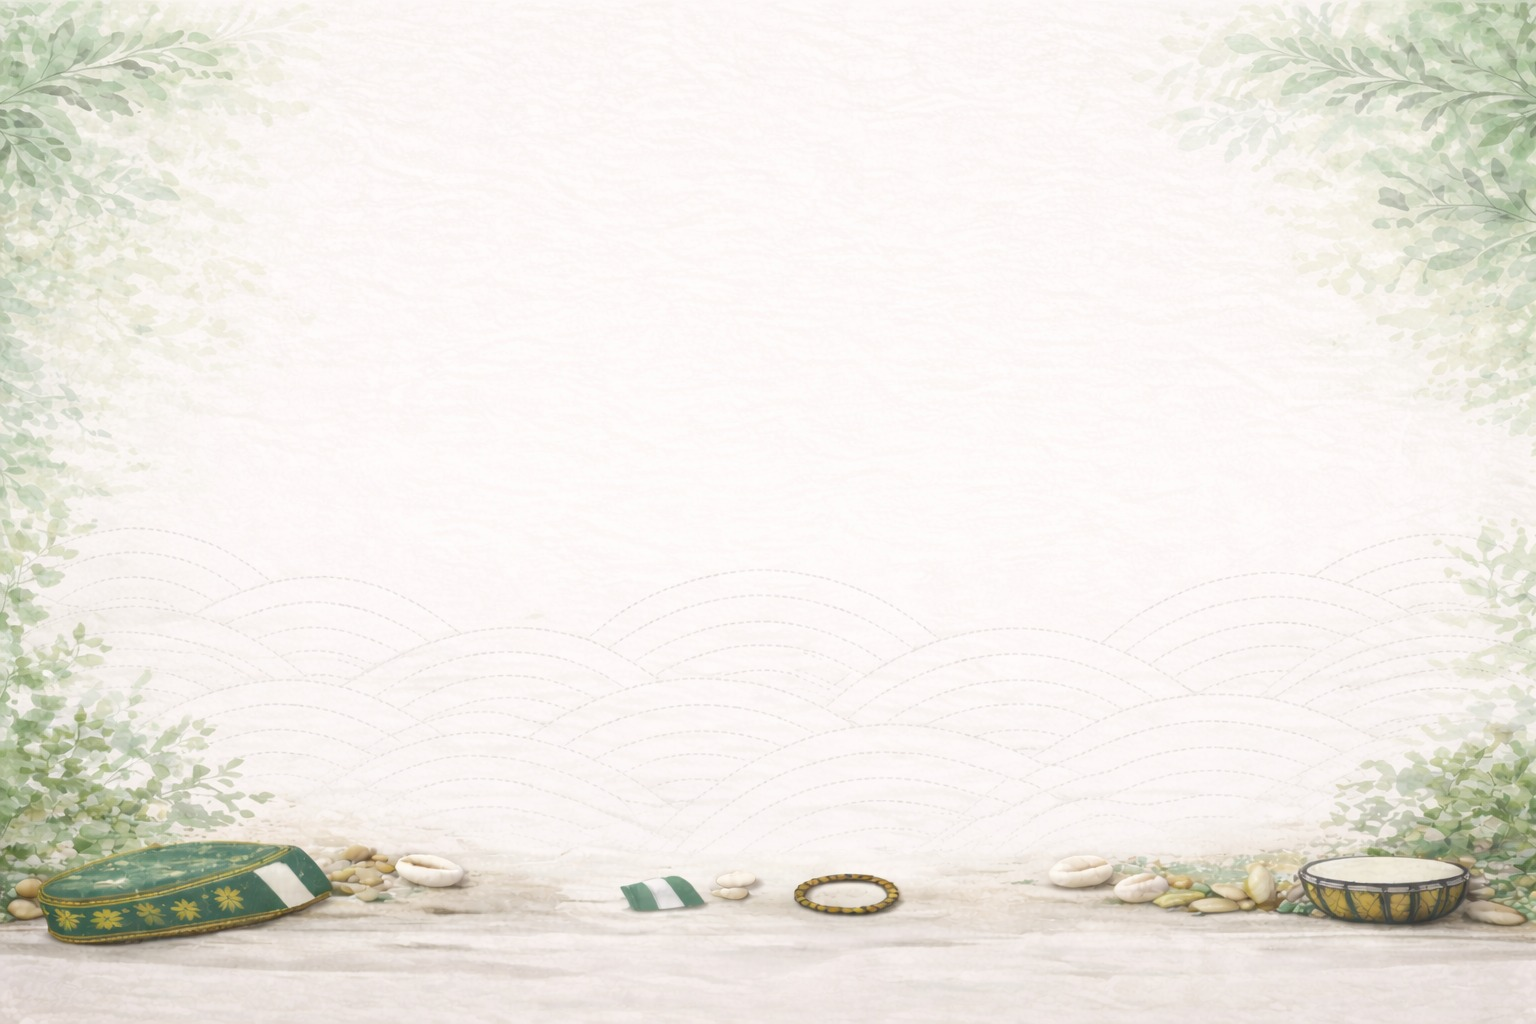
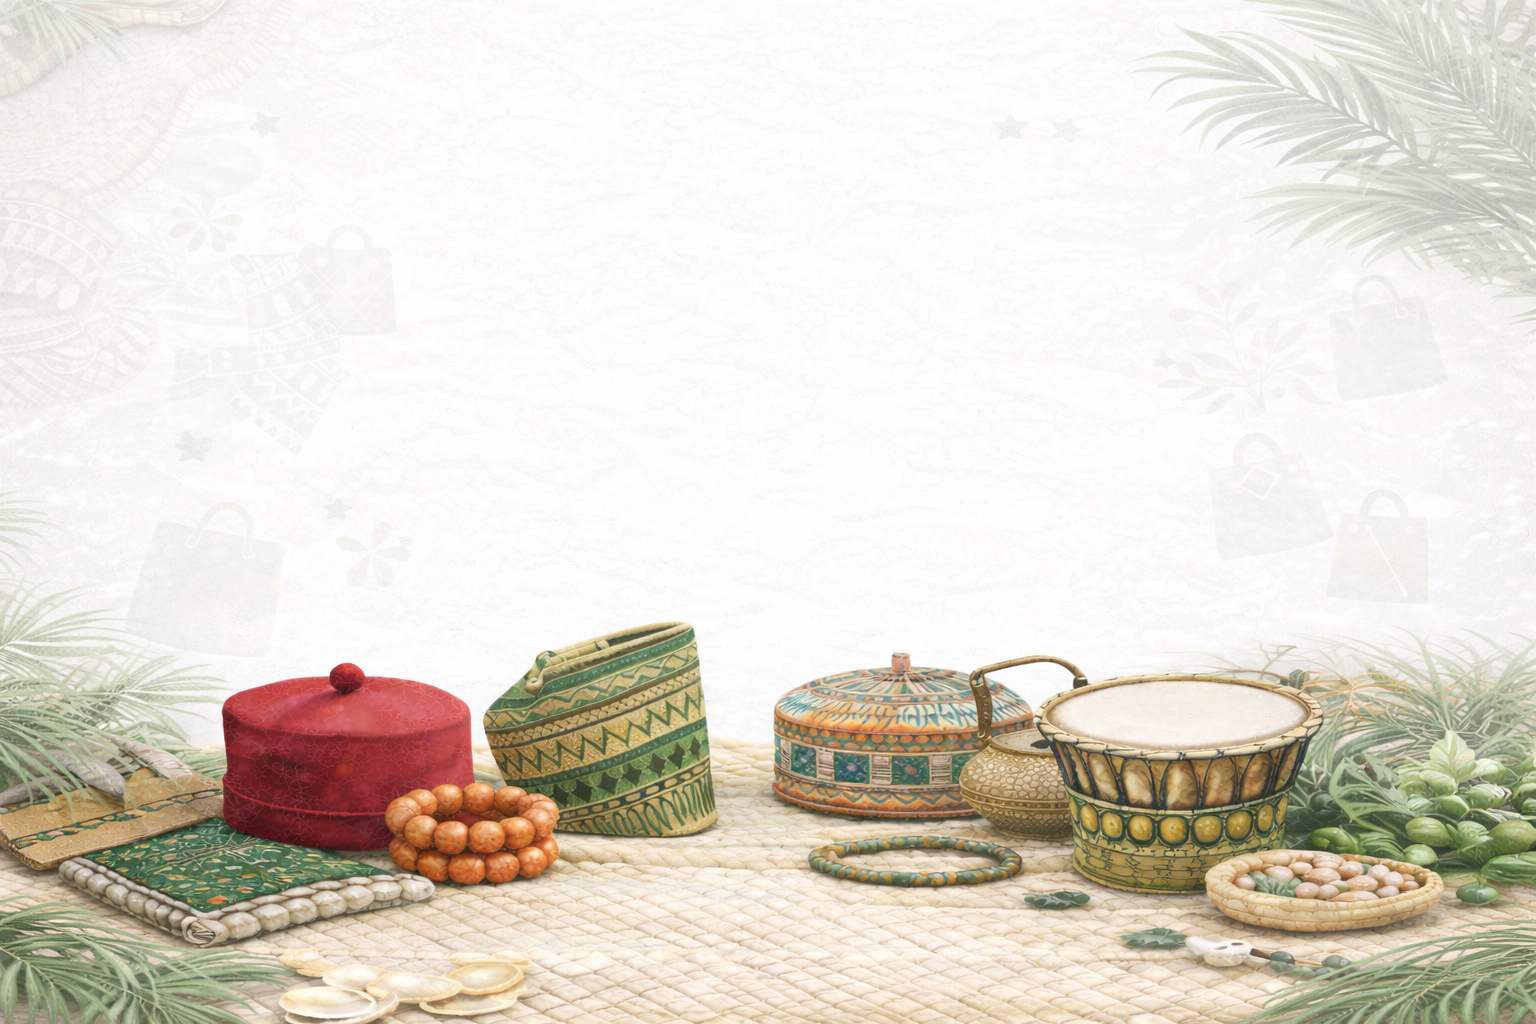
changed the bg image for big screens

diff --git a/app/(auth)/login/page.js b/app/(auth)/login/page.js
@@ -46,10 +46,15 @@ export default function LoginPage() {
   };
 
   return (
-    <div 
-      className="min-h-screen flex flex-col bg-cover bg-center bg-no-repeat bg-[url('/bg.jpeg')] md:bg-[url('/bg_big.jpeg')]"
-    >
-      <main className="flex-1 flex flex-col items-center justify-center px-4 py-8 z-10 w-full max-w-2xl mx-auto">
+    <div className="relative min-h-screen">
+      {/* Background with different images for mobile/desktop */}
+      <div className="absolute inset-0 bg-cover bg-center bg-no-repeat 
+                      bg-[url('/bg.jpeg')] md:bg-[url('/bg_big.jpeg')]"></div>
+      
+      {/* Black overlay - only visible on md and above */}
+      <div className="absolute inset-0 hidden md:block bg-black/20"></div>
+      
+      <main className="relative flex-1 flex flex-col items-center justify-center px-4 py-8 z-10 w-full max-w-2xl mx-auto">
         {/* Logo Section */}
         <div className="text-center mb-8">
           <div className="flex items-center justify-center gap-2 mb-2">
